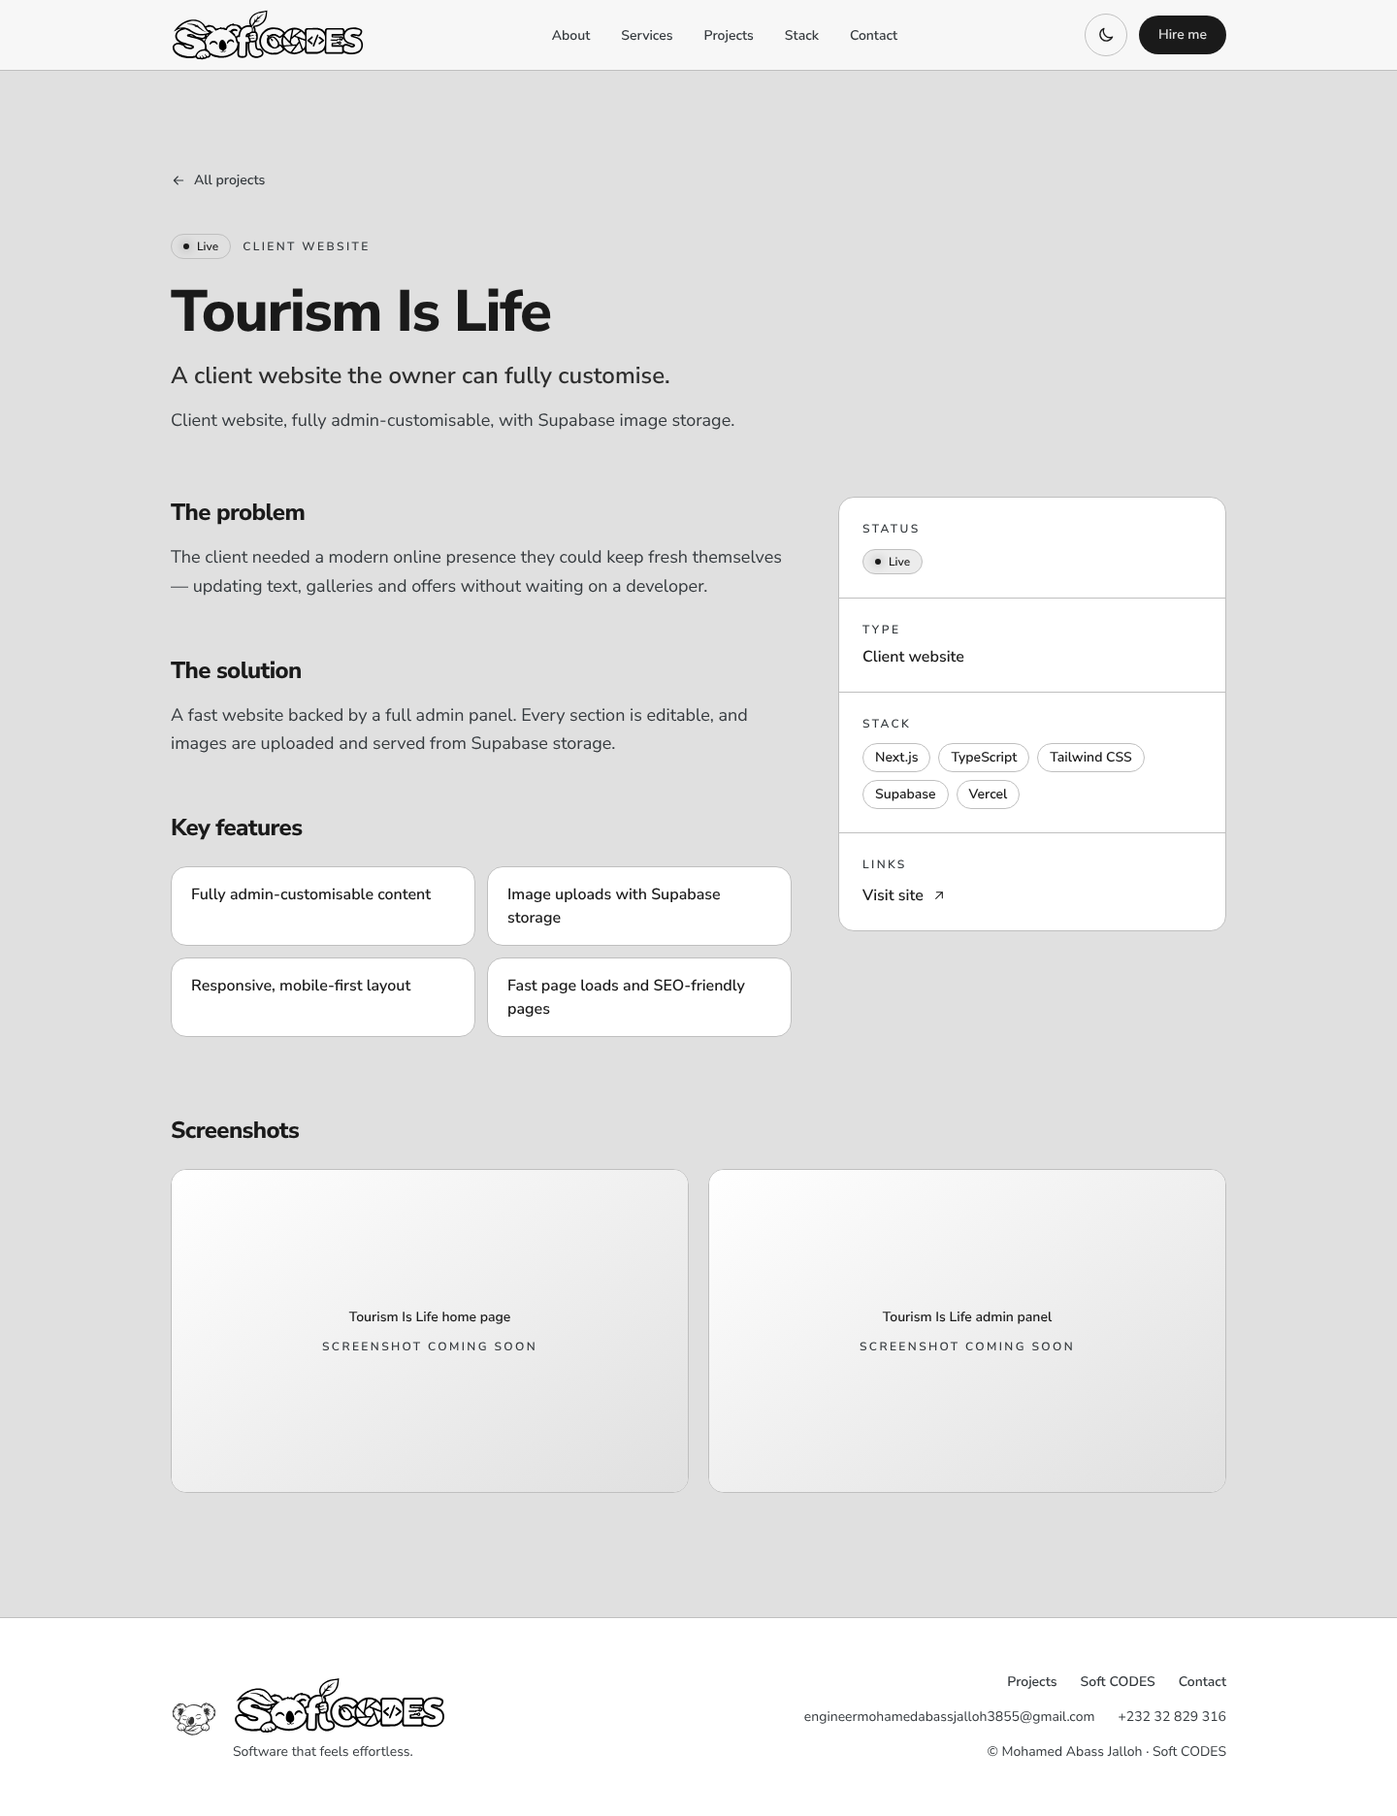
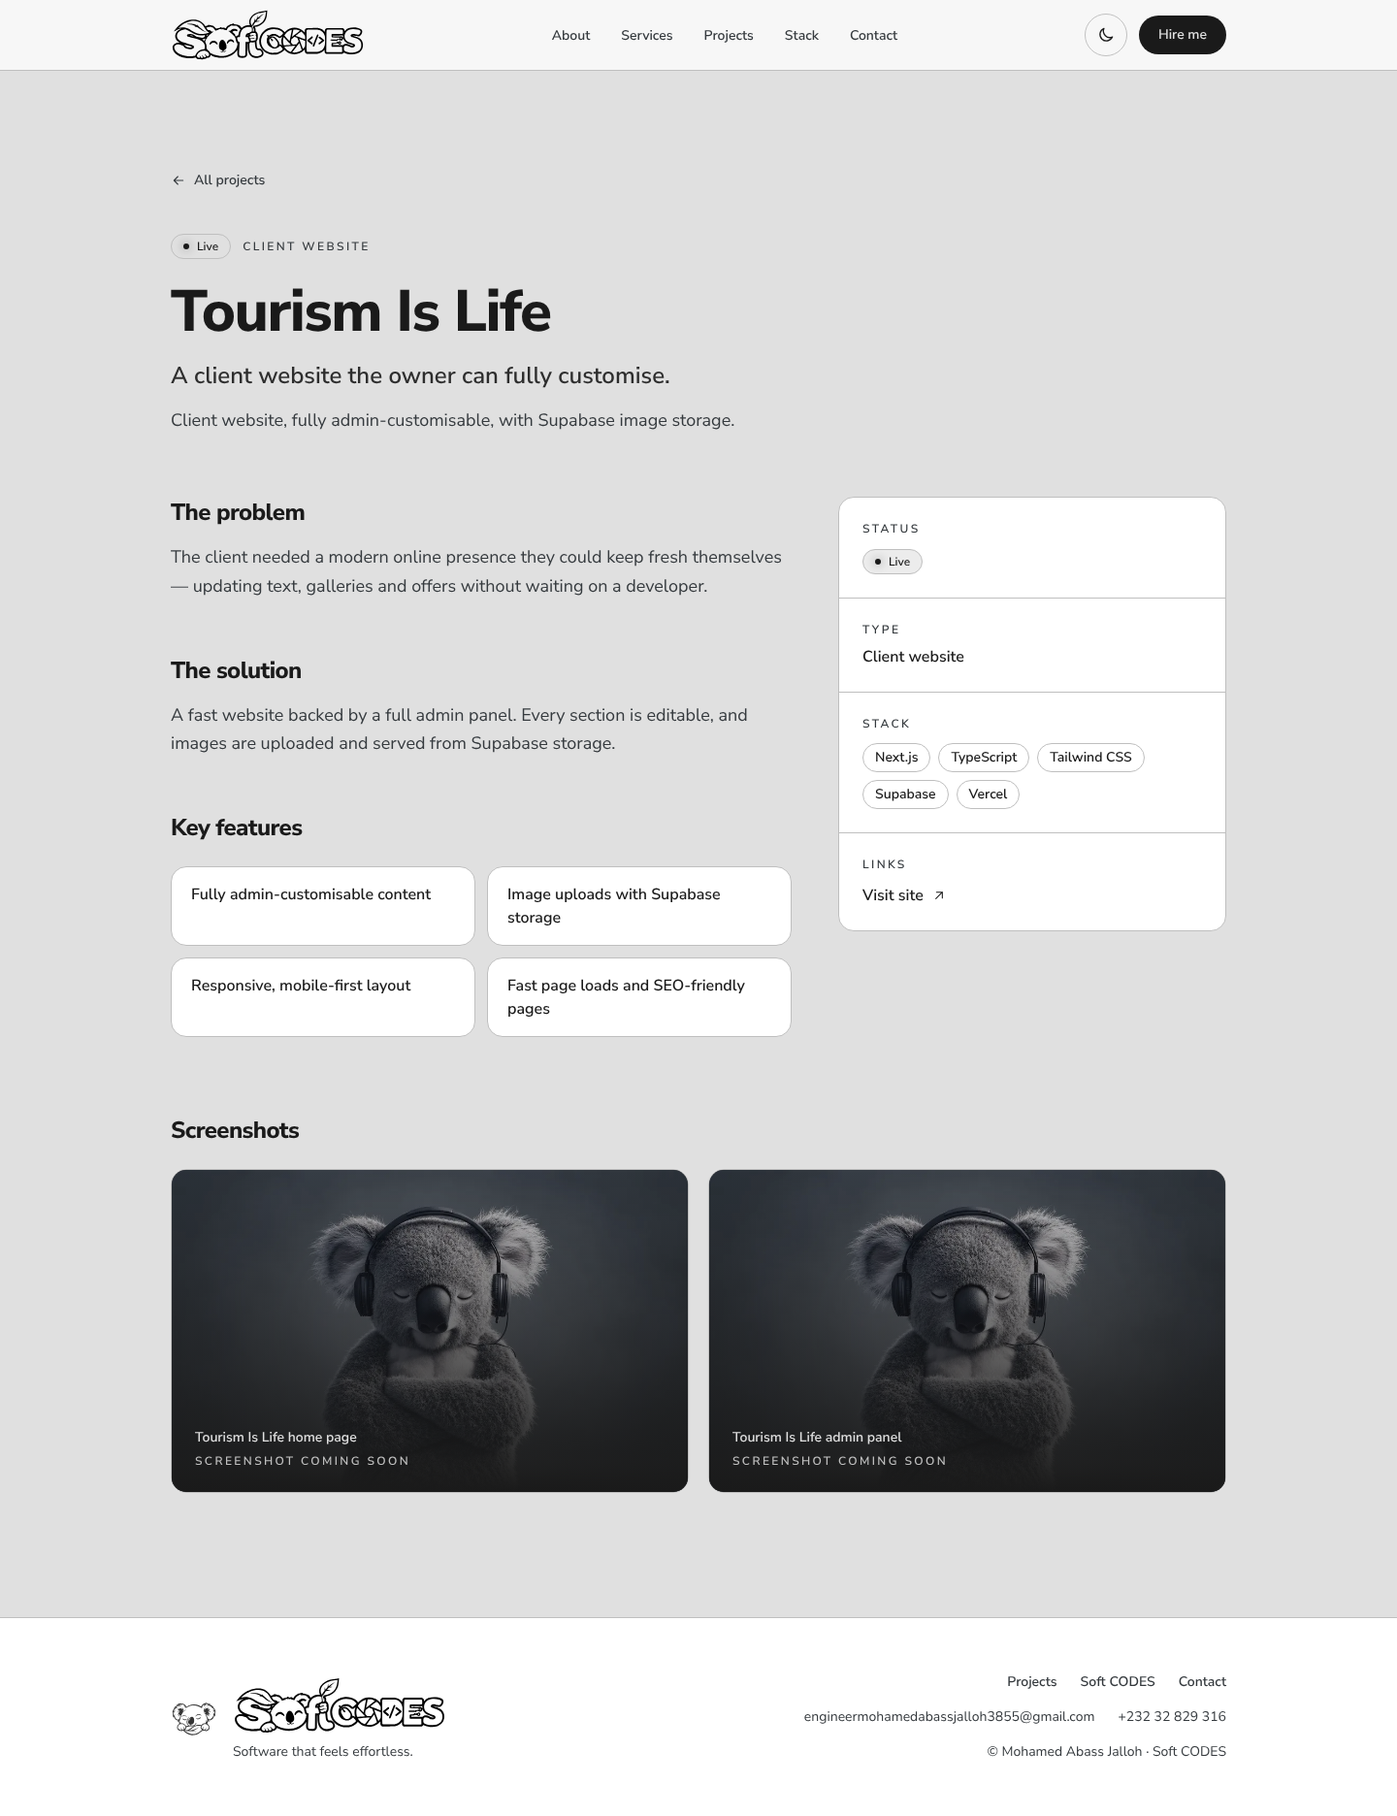
T1: koala hero, portrait to About, mascot on empty states
- Hero (DEC-29): koala mascot as full-width background via next/image;
  text left, koala right of centre on desktop, below the text on mobile;
  left-side gradient for AA contrast; always dark via scoped
  data-theme="dark" (dark tokens can now scope to any element);
  portrait card removed from the hero
- About (DEC-30): interim 2-column layout with /brand/me.jpg + bio,
  marked TODO(DEC-30)
- Mascot on states (DEC-31): koala on the 404 page and on every
  "coming soon" / screenshot placeholder (MascotPlaceholder)
- Registry: A-01, A-02, A-03, M-02 status/evidence + DEC references;
  merges docs/product from docs/product-master
- Screenshots: home, 404 and case study at 1440/390 in both themes

Claude-Session: https://claude.ai/code/session_016r1yg8KumrwTQxZyYAFVpQ

Changed region(s): [[0.125, 0.6197, 0.875, 0.8365]]

diff --git a/src/app/page.tsx b/src/app/page.tsx
@@ -6,7 +6,7 @@ import { ContactForm } from "@/components/ContactForm";
 import { ArrowRight, SparkIcon } from "@/components/Icons";
 import { ProjectCard } from "@/components/ProjectCard";
 import { Reveal } from "@/components/Reveal";
-import { ThemeImage } from "@/components/ThemeImage";
+import { MascotPlaceholder } from "@/components/MascotPlaceholder";
 import { Container, Eyebrow, Section } from "@/components/Section";
 import {
   about,
@@ -34,14 +34,49 @@ export default function Home() {
 
 function Hero() {
   return (
-    <section className="hero-bg grain relative isolate overflow-hidden pt-36 pb-24 sm:pt-44 sm:pb-36">
-      <Container className="relative z-10 grid items-center gap-14 lg:grid-cols-[1.4fr_1fr]">
-        <div>
+    // DEC-29: koala mascot as full-width background; text left, koala right.
+    // data-theme="dark" scopes the dark tokens so the hero stays dark in both themes.
+    <section
+      data-theme="dark"
+      aria-labelledby="hero-heading"
+      className="relative isolate flex flex-col overflow-hidden bg-bg text-text lg:min-h-[760px] lg:justify-center"
+    >
+      {/* Mascot layer: below the text on mobile, background right of centre on desktop. */}
+      <div
+        aria-hidden
+        className="hero-koala relative order-2 mt-4 h-[min(115vw,520px)] w-full lg:absolute lg:inset-y-0 lg:left-[28%] lg:right-0 lg:order-none lg:mt-0 lg:h-auto lg:w-auto"
+      >
+        <Image
+          src="/brand/mascot-koala.jpg"
+          alt=""
+          fill
+          priority
+          sizes="(min-width: 1024px) 72vw, 100vw"
+          className="object-cover object-[50%_40%] lg:object-center"
+        />
+      </div>
+
+      {/* Text-side gradient for AA contrast (desktop: left → right). */}
+      <div
+        aria-hidden
+        className="absolute inset-y-0 left-0 hidden w-[68%] bg-gradient-to-r from-bg from-35% via-bg/90 via-55% to-transparent lg:block"
+      />
+      {/* Bottom fade into the page bg (no seam in dark theme). */}
+      <div
+        aria-hidden
+        className="absolute inset-x-0 bottom-0 h-24 bg-gradient-to-t from-bg to-transparent"
+      />
+
+      <Container className="relative z-10 order-1 pt-32 sm:pt-40 lg:py-40">
+        <div className="max-w-xl">
           <Reveal>
             <Eyebrow>{hero.eyebrow}</Eyebrow>
           </Reveal>
           <Reveal delay={100}>
-            <h1 className="mt-6 text-5xl font-extrabold tracking-tighter text-text sm:text-7xl">
+            <h1
+              id="hero-heading"
+              className="mt-6 text-5xl font-extrabold tracking-tighter text-text sm:text-7xl"
+            >
               {hero.name}
             </h1>
           </Reveal>
@@ -49,7 +84,7 @@ function Hero() {
             <p className="mt-5 text-lg font-semibold text-muted sm:text-xl">{hero.title}</p>
           </Reveal>
           <Reveal delay={300}>
-            <p className="mt-8 max-w-xl text-2xl leading-snug font-semibold text-text sm:text-3xl">
+            <p className="mt-8 text-2xl leading-snug font-semibold text-text sm:text-3xl">
               {hero.pitch}
             </p>
           </Reveal>
@@ -63,9 +98,6 @@ function Hero() {
             </Button>
           </Reveal>
         </div>
-        <Reveal delay={300} className="mx-auto w-full max-w-sm lg:max-w-none">
-          <Portrait />
-        </Reveal>
       </Container>
     </section>
   );
@@ -79,21 +111,15 @@ function Portrait() {
           src={person.photo}
           alt={person.photoAlt}
           fill
-          priority
-          sizes="(min-width: 1024px) 400px, 90vw"
+          sizes="(min-width: 1024px) 380px, (min-width: 640px) 50vw, 90vw"
           className="object-cover object-top"
         />
       ) : (
-        <div
-          role="img"
-          aria-label={`${person.photoAlt} (placeholder)`}
-          className="flex h-full flex-col items-center justify-center gap-6 bg-gradient-to-b from-surface to-bg"
-        >
-          <ThemeImage name="softcodes-icon" alt="" width={977} height={977} className="block h-28 w-28 opacity-60" />
-          <span className="text-xs font-semibold uppercase tracking-[0.25em] text-muted">
-            Photo coming soon
-          </span>
-        </div>
+        <MascotPlaceholder
+          label={person.photoAlt}
+          note="Photo coming soon"
+          sizes="(min-width: 1024px) 380px, 90vw"
+        />
       )}
     </div>
   );
@@ -102,25 +128,32 @@ function Portrait() {
 function About() {
   return (
     <Section id="about" eyebrow={about.eyebrow} heading={about.heading}>
-      <div className="grid gap-12 lg:grid-cols-[1.3fr_1fr]">
-        <Reveal className="space-y-6 text-lg leading-relaxed text-muted">
-          {/* TODO: bio is placeholder copy — see about.paragraphs in src/content/site.ts */}
-          {about.paragraphs.map((p) => (
-            <p key={p}>{p}</p>
-          ))}
+      {/* TODO(DEC-30): interim 2-column layout (photo + bio). The owner will supply the
+          final About layout reference and a new photo (public/brand/me.jpg). */}
+      <div className="grid items-start gap-12 md:grid-cols-[minmax(0,1fr)_minmax(0,1.6fr)] lg:gap-16">
+        <Reveal className="mx-auto w-full max-w-sm md:max-w-none">
+          <Portrait />
         </Reveal>
-        <Reveal delay={150}>
-          <dl className="divide-y divide-border rounded-2xl border border-border bg-surface">
-            {about.facts.map((f) => (
-              <div key={f.label} className="p-6">
-                <dt className="text-xs font-semibold uppercase tracking-[0.2em] text-muted">
-                  {f.label}
-                </dt>
-                <dd className="mt-2 font-semibold text-text">{f.value}</dd>
-              </div>
+        <div>
+          <Reveal className="space-y-6 text-lg leading-relaxed text-muted">
+            {/* TODO: bio is placeholder copy — see about.paragraphs in src/content/site.ts */}
+            {about.paragraphs.map((p) => (
+              <p key={p}>{p}</p>
             ))}
-          </dl>
-        </Reveal>
+          </Reveal>
+          <Reveal delay={150} className="mt-10">
+            <dl className="divide-y divide-border rounded-2xl border border-border bg-surface">
+              {about.facts.map((f) => (
+                <div key={f.label} className="p-6">
+                  <dt className="text-xs font-semibold uppercase tracking-[0.2em] text-muted">
+                    {f.label}
+                  </dt>
+                  <dd className="mt-2 font-semibold text-text">{f.value}</dd>
+                </div>
+              ))}
+            </dl>
+          </Reveal>
+        </div>
       </div>
     </Section>
   );

diff --git a/src/app/globals.css b/src/app/globals.css
@@ -9,9 +9,11 @@
    bg-btn-bg, text-btn-fg.
    --------------------------------------------------------------- */
 
-/* Dark (also the fallback when no theme is known yet). */
+/* Dark (also the fallback when no theme is known yet).
+   `[data-theme="dark"]` on any element scopes the dark tokens to that
+   subtree — used by sections that stay dark in both themes (DEC-29). */
 :root,
-:root[data-theme="dark"] {
+[data-theme="dark"] {
   color-scheme: dark;
   --bg: #1a1a1a;
   --surface: #222526;
@@ -50,8 +52,9 @@
   }
 }
 
-:root {
-  /* Derived values — no new colours, only mixes of the tokens above. */
+:root,
+[data-theme] {
+  /* Derived values (redeclared on scoped-theme elements so they resolve there) — no new colours, only mixes of the tokens above. */
   --glow: color-mix(in srgb, var(--text) 28%, transparent);
   --glow-strong: color-mix(in srgb, var(--text) 45%, transparent);
   --border-hover: color-mix(in srgb, var(--text) 35%, var(--border));
@@ -108,12 +111,36 @@ body {
   display: none;
 }
 
+/* Inside a dark-scoped section (e.g. the hero) always show the dark-theme asset. */
+:root[data-theme="light"] [data-theme="dark"] .theme-dark-only {
+  display: block;
+}
+:root[data-theme="light"] [data-theme="dark"] .theme-light-only {
+  display: none;
+}
+
 @media (prefers-color-scheme: light) {
   :root:not([data-theme]) .theme-light-only {
     display: block;
   }
   :root:not([data-theme]) .theme-dark-only {
     display: none;
+  }
+}
+
+/* ---------------- Home hero: koala mascot background (DEC-29) ---------------- */
+/* Mobile: the image sits below the text, its top edge fading into bg.
+   Desktop: it fills the right of the hero, its left edge fading into the
+   text-side gradient. Mask colour only needs to be opaque, so a token is used. */
+.hero-koala {
+  -webkit-mask-image: linear-gradient(to bottom, transparent 0%, var(--bg) 30%);
+  mask-image: linear-gradient(to bottom, transparent 0%, var(--bg) 30%);
+}
+
+@media (min-width: 1024px) {
+  .hero-koala {
+    -webkit-mask-image: linear-gradient(to right, transparent 0%, var(--bg) 30%);
+    mask-image: linear-gradient(to right, transparent 0%, var(--bg) 30%);
   }
 }
 

diff --git a/src/components/MascotPlaceholder.tsx b/src/components/MascotPlaceholder.tsx
@@ -1,0 +1,47 @@
+import Image from "next/image";
+
+type MascotPlaceholderProps = {
+  /** What will eventually appear here (also the accessible name). */
+  label: string;
+  /** Short status line, e.g. "Screenshot coming soon". */
+  note: string;
+  /** Hint for next/image `sizes`. */
+  sizes?: string;
+  className?: string;
+};
+
+/**
+ * Empty / "coming soon" state using the Soft CODES koala mascot (DEC-28, DEC-31).
+ * Always dark (data-theme="dark") so the label stays readable over the photo in both themes.
+ */
+export function MascotPlaceholder({
+  label,
+  note,
+  sizes = "(min-width: 768px) 50vw, 100vw",
+  className = "",
+}: MascotPlaceholderProps) {
+  return (
+    <div
+      data-theme="dark"
+      role="img"
+      aria-label={`${label} (placeholder: ${note.toLowerCase()})`}
+      className={`relative isolate h-full w-full overflow-hidden bg-bg ${className}`}
+    >
+      <Image
+        src="/brand/mascot-koala.jpg"
+        alt=""
+        fill
+        sizes={sizes}
+        className="-z-10 object-cover object-[50%_35%] opacity-80"
+      />
+      <div
+        aria-hidden
+        className="absolute inset-0 -z-10 bg-gradient-to-t from-bg via-bg/50 to-transparent"
+      />
+      <div className="flex h-full flex-col justify-end gap-1.5 p-5 sm:p-6">
+        <span className="text-sm font-semibold text-text">{label}</span>
+        <span className="text-xs font-semibold uppercase tracking-[0.2em] text-muted">{note}</span>
+      </div>
+    </div>
+  );
+}

diff --git a/src/app/projects/[slug]/page.tsx b/src/app/projects/[slug]/page.tsx
@@ -5,6 +5,7 @@ import { notFound } from "next/navigation";
 import { ArrowLeft, ArrowUpRight } from "@/components/Icons";
 import { Reveal } from "@/components/Reveal";
 import { Container } from "@/components/Section";
+import { MascotPlaceholder } from "@/components/MascotPlaceholder";
 import { StatusBadge } from "@/components/StatusBadge";
 import { getProject, pages, projects } from "@/content/site";
 
@@ -147,16 +148,7 @@ export default async function CaseStudyPage({ params }: PageProps<"/projects/[sl
                   <Image src={s.src} alt={s.alt} fill sizes="(min-width: 768px) 50vw, 100vw" className="object-cover" />
                 ) : (
                   // TODO: screenshot placeholder — set `src` for this screenshot in src/content/site.ts.
-                  <div
-                    role="img"
-                    aria-label={`${s.alt} (placeholder)`}
-                    className="grain relative flex h-full flex-col items-center justify-center gap-3 bg-gradient-to-br from-surface to-bg p-6 text-center"
-                  >
-                    <span className="text-sm font-semibold text-text">{s.alt}</span>
-                    <span className="text-xs font-semibold uppercase tracking-[0.2em] text-muted">
-                      {t.screenshotPlaceholder}
-                    </span>
-                  </div>
+                  <MascotPlaceholder label={s.alt} note={t.screenshotPlaceholder} />
                 )}
               </li>
             ))}

diff --git a/src/app/not-found.tsx b/src/app/not-found.tsx
@@ -1,12 +1,24 @@
+import Image from "next/image";
 import { Button } from "@/components/Button";
 import { Container } from "@/components/Section";
 import { pages } from "@/content/site";
 
 export default function NotFound() {
   return (
-    <section className="hero-bg grain relative isolate flex min-h-[70vh] items-center overflow-hidden pt-36 pb-24">
-      <Container className="relative z-10 text-center">
-        <h1 className="text-4xl font-extrabold tracking-tight text-text sm:text-6xl">
+    <section className="hero-bg grain relative isolate flex min-h-[70vh] items-center overflow-hidden pt-32 pb-24 sm:pt-36">
+      <Container className="relative z-10 flex flex-col items-center text-center">
+        {/* DEC-31: koala mascot on the 404 state. */}
+        <div className="relative aspect-[16/9] w-full max-w-md overflow-hidden rounded-2xl border border-border shadow-[0_0_80px_-30px_var(--glow)]">
+          <Image
+            src="/brand/mascot-koala.jpg"
+            alt="The Soft CODES koala, eyes closed, listening to music"
+            fill
+            priority
+            sizes="(min-width: 640px) 448px, 90vw"
+            className="object-cover object-[50%_35%]"
+          />
+        </div>
+        <h1 className="mt-10 text-4xl font-extrabold tracking-tight text-text sm:text-6xl">
           {pages.notFound.title}
         </h1>
         <p className="mt-5 text-lg text-muted">{pages.notFound.body}</p>

diff --git a/src/content/site.ts b/src/content/site.ts
@@ -47,6 +47,7 @@ export const person = {
   education:
     "BSc Software Engineering with Multimedia, Limkokwing University of Creative Technology",
   experience: "IT internship at NASSIT",
+  // TODO(DEC-30): interim photo — owner will supply a new portrait for the About section.
   photo: "/brand/me.jpg" as string | null,
   photoAlt: "Portrait of Mohamed Abass Jalloh",
 };

diff --git a/docs/product/FEATURE-REGISTRY.md b/docs/product/FEATURE-REGISTRY.md
@@ -14,7 +14,7 @@ Every feature discussed for Soft CODES is listed here. Features are never delete
 
 | Category | Features | Implemented | Planned |
 |---|---|---|---|
-| A. Public website and brand experience | 16 | 10 | 6 |
+| A. Public website and brand experience | 16 | 11 | 5 |
 | B. Intelligent project acquisition | 18 | 0 | 18 |
 | C. Payments and financial management | 16 | 0 | 16 |
 | D. Official document management | 17 | 0 | 17 |
@@ -27,7 +27,7 @@ Every feature discussed for Soft CODES is listed here. Features are never delete
 | K. Security and infrastructure | 23 | 0 | 23 |
 | L. Future platform expansion | 13 | 0 | 13 |
 | M. Site features agreed in chat (2026-11-19) | 17 | 2 | 15 |
-| **Total** | **205** | **12** | **193** |
+| **Total** | **205** | **13** | **192** |
 
 Counts *Implemented* includes *In development*. Nothing is Verified or Released yet: the site is not deployed.
 
@@ -47,7 +47,8 @@ Counts *Implemented* includes *In development*. Nothing is Verified or Released 
 - **Testing:** Category baseline.
 - **Acceptance criteria:** Site builds and renders all public routes in both themes at 1440/390.
 - **Status:** Implemented
-- **Evidence:** PR #1 (site v1), PR #2 (themes) merged to main; not yet deployed
+- **Evidence:** PR #1 (site v1), PR #2 (themes) merged to main; not yet deployed. T1 (branch feat/hero-koala): koala mascot on 404 and all "coming soon"/screenshot placeholders (src/app/not-found.tsx, src/components/MascotPlaceholder.tsx)
+- **Decisions:** DEC-03, DEC-28, DEC-31
 
 ### A-02 — Homepage
 - **Description:** Hero (photo + text), about, services, featured work, stack, contact.
@@ -57,7 +58,8 @@ Counts *Implemented* includes *In development*. Nothing is Verified or Released 
 - **Testing:** Category baseline.
 - **Acceptance criteria:** Home renders every section; hero shows portrait; CTAs work.
 - **Status:** Implemented
-- **Evidence:** src/app/page.tsx
+- **Evidence:** src/app/page.tsx. T1 (branch feat/hero-koala): hero rebuilt per DEC-29 — koala mascot full-width background (next/image, priority), text left / koala right on desktop, koala below text on mobile, always dark via scoped `data-theme="dark"`; portrait removed from hero. Measured hero text contrast ≥ 5.97:1 at 768–1440 and 390 in both themes. Screenshots: docs/screenshots/home-{1440,390}-{dark,light}.png
+- **Decisions:** DEC-09 (superseded by DEC-29 for layout), DEC-29, DEC-30
 
 ### A-03 — About page
 - **Description:** Dedicated About page with real bio, education, experience, values.
@@ -66,8 +68,9 @@ Counts *Implemented* includes *In development*. Nothing is Verified or Released 
 - **Security:** Category baseline.
 - **Testing:** Category baseline.
 - **Acceptance criteria:** Bio approved by owner; editable from admin.
-- **Status:** Planned
-- **Evidence:** Partial: About is a home section only, placeholder bio
+- **Status:** In development
+- **Evidence:** Partial: About is a home section only, placeholder bio. T1 (branch feat/hero-koala): interim 2-column About (owner photo /brand/me.jpg + bio + facts), marked TODO(DEC-30); final layout, photo, approved bio and admin editing still pending (R1a T6)
+- **Decisions:** DEC-21, DEC-30
 
 ### A-04 — Services
 - **Description:** Service list with descriptions, linked to pricing and quote.
@@ -2033,7 +2036,8 @@ Counts *Implemented* includes *In development*. Nothing is Verified or Released 
 - **Testing:** Category baseline.
 - **Acceptance criteria:** Owner-approved photo shown, face not cropped.
 - **Status:** In development
-- **Evidence:** Temporary photo in commit b290c8f; owner will supply a new photo (DEC-20)
+- **Evidence:** Temporary photo in commit b290c8f; owner will supply a new photo (DEC-20). T1 (branch feat/hero-koala): per DEC-29/DEC-30 the hero now shows the koala mascot and the owner portrait moved to the About section (interim layout, TODO(DEC-30)); awaiting owner photo and About layout reference
+- **Decisions:** DEC-09, DEC-20, DEC-29, DEC-30
 
 ### M-03 — Quote request form
 - **Description:** Short form: name, email, project type, budget, deadline, details; emailed to owner. Precursor to the wizard (B-01).
